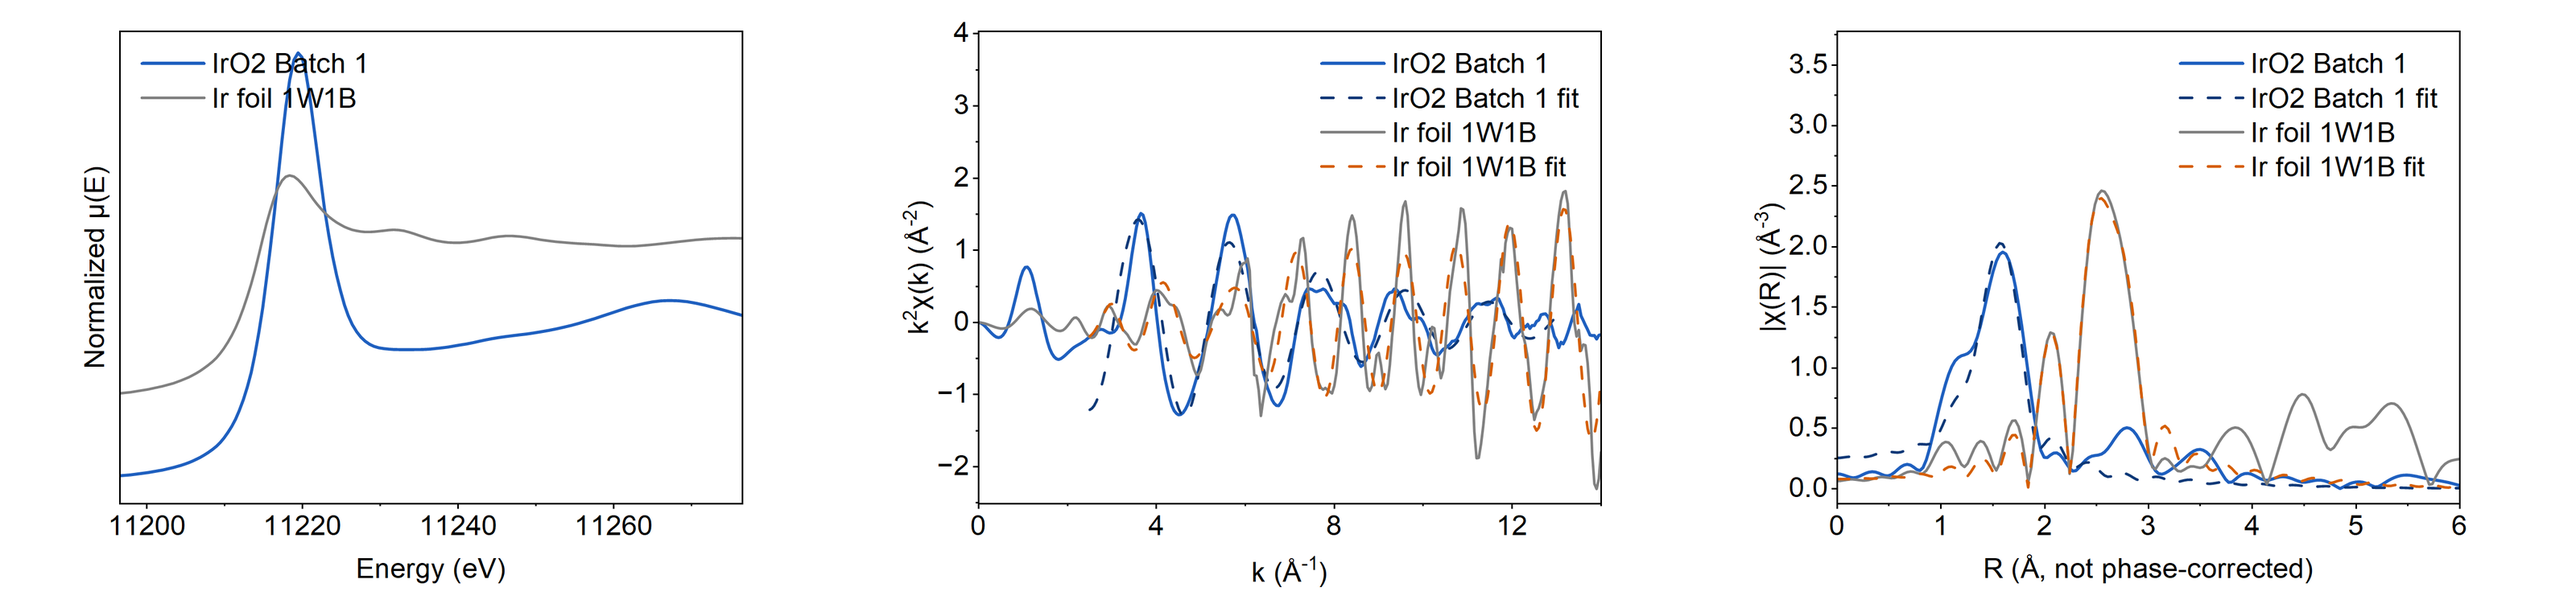
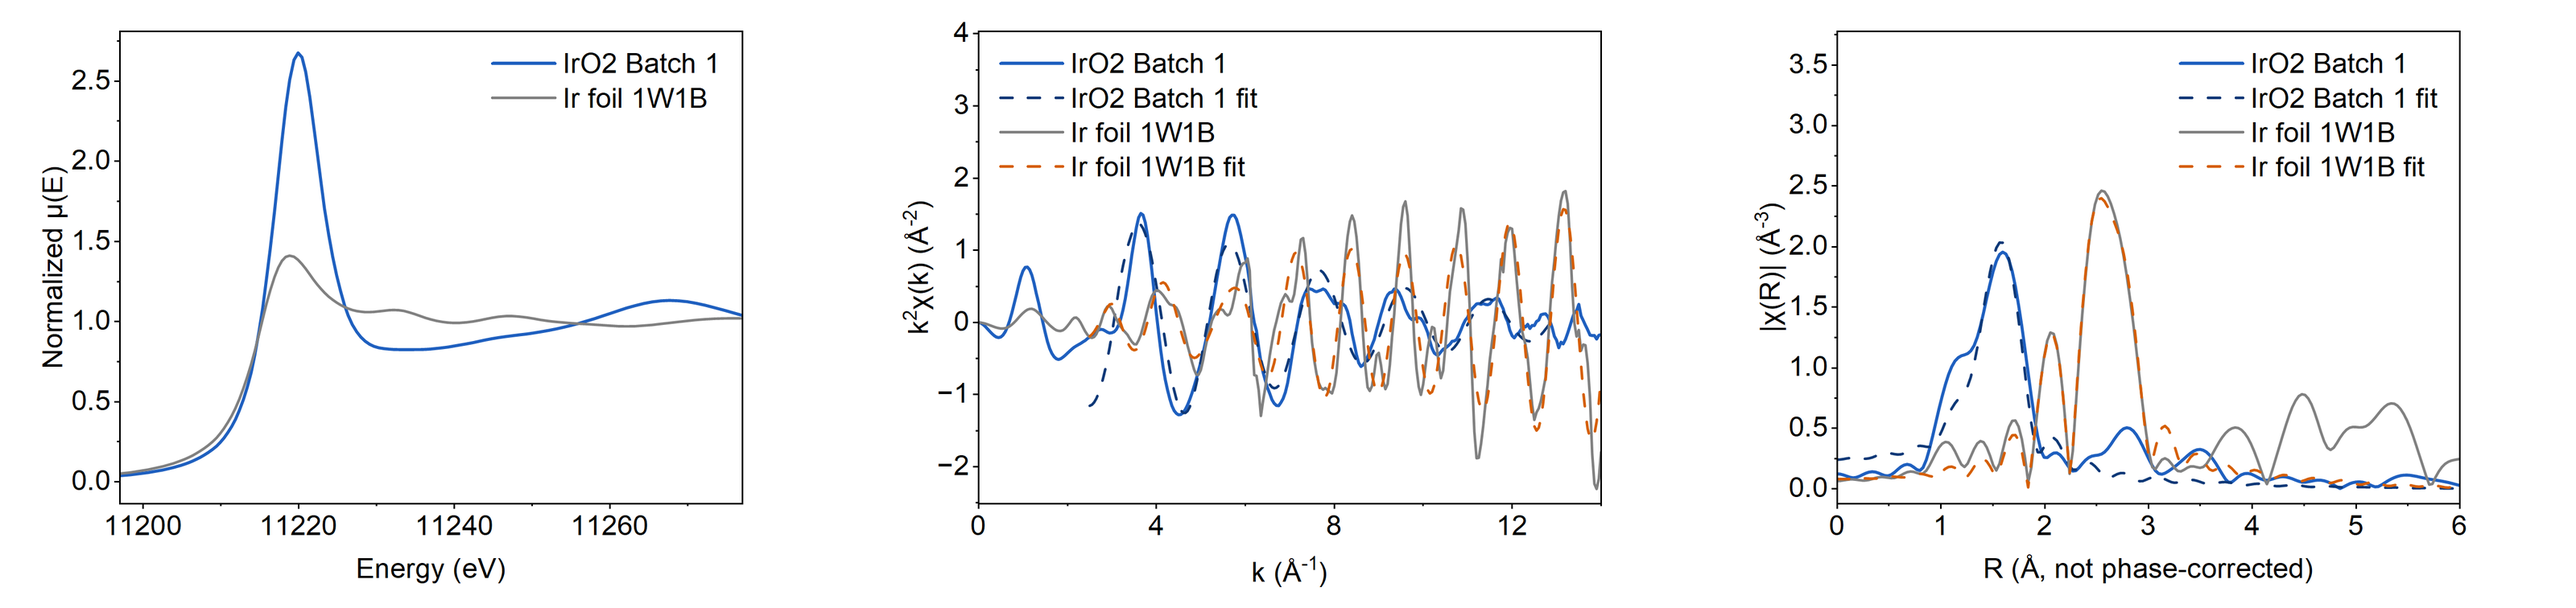
修复导出页叠加拟合不显示、预览被裁切；README 图重做拟合；退出前等待后台线程
- 导出页：拟合按会话键名或显示名 g.label 匹配谱（拟合记录的样品名是显示名，原来匹配不上，勾选后无拟合线）
- 导出页：叠加拟合选择单独一行；MultiSelect 不按长文字撑宽布局（原来页面被撑宽，预览右侧被裁掉）
- Origin 图例自动放在曲线较低的一侧
- README 图：Batch1 的 Ir 箔按 11215.0 eV（xraydb）重新校准（原记录误用 11214.5 eV，与另一批差 0.5 eV）；
  XANES 不错开、共用纵轴；IrO2 Batch 1 重新拟合（S0² 固定 0.80）
- 退出前取消并等待后台 QThread（线程对象在运行中被销毁时 Qt 会 abort，疑为 CI ubuntu/3.11 退出码 134 的原因）

diff --git a/src/xafsmith/qt/pages/output.py b/src/xafsmith/qt/pages/output.py
@@ -169,6 +169,15 @@ class MethodsPage(Page):
         return card
 
 
+def _fit_key(S, fit, keys):
+    """拟合属于哪条谱（会话中的键）：拟合记录的样品名可能是键名，也可能是谱的显示名 g.label"""
+    names = {fit["summ"].get("sample"), (fit.get("model") or {}).get("sample")}
+    for k in keys:
+        if k in names or getattr(S.groups.get(k), "label", None) in names:
+            return k
+    return None
+
+
 # ============================================================================= 图片导出
 class PubFigPage(Page):
     title_zh, title_en, icon_name = "图片导出", "Figure export", "chart"
@@ -221,16 +230,15 @@ class PubFigPage(Page):
                     opt["re"] = W.check(T("同时画 Re χ(R)（虚线）", "Also Re χ(R) (dashed)"), self.state.get("re", False))
                     items.append((T("R 上限", "R max"), opt["rmax"]))
                 # 叠加拟合：每条谱默认取最近一次拟合，也可在列表中指定
-                fit_ids = [i for i, f_ in enumerate(S.fits) if f_["summ"]["sample"] in cands]
+                fit_ids = [i for i, f_ in enumerate(S.fits) if _fit_key(S, f_, cands)]
                 latest = {}
                 for i in fit_ids:
-                    latest[S.fits[i]["summ"]["sample"]] = i
+                    latest[_fit_key(S, S.fits[i], cands)] = i
                 opt["usefit"] = W.check(T("叠加拟合曲线（虚线）", "Overlay fit (dashed)"), self.state.get("usefit", False) and bool(fit_ids))
                 saved = [i for i in self.state.get("fits", []) if i in fit_ids]
                 opt["fits"] = W.MultiSelect(fit_ids, saved or list(latest.values()),
                                             T("无拟合：先在“EXAFS 拟合”中拟合", "No fits: fit under “EXAFS fitting” first"),
                                             fmt=lambda i: fit_label(S.fits[i]))
-                items.append((T("拟合", "Fits"), opt["fits"]))
             ctl.add(W.fields(*items))
             refs0 = self.state.get("refs")
             if refs0 is None:
@@ -238,6 +246,8 @@ class PubFigPage(Page):
             opt["refs"] = W.MultiSelect(cands, [c for c in refs0 if c in cands], T("无（全部按样品配色）", "None (all as samples)"))
             ctl.add(W.fields((T("配色方案", "Palette"), pal),
                              (T("参比 / 标样（用灰色画，线稍细）", "References / standards (grey, thinner)"), opt["refs"])))
+            if "fits" in opt:       # 单独一行：放在上面一行会把页面撑宽，预览被裁掉
+                ctl.add(W.fields((T("叠加的拟合（每条谱默认取最近一次）", "Fits to overlay (latest per spectrum by default)"), opt["fits"])))
             ctl.add(W.hbox(opt["sub"], *([opt["re"]] if "re" in opt else []), *([opt["usefit"]] if "usefit" in opt else []), None))
         ctl.add(W.fields((T("尺寸", "Size"), size), (T("格式", "Formats"), fmts), (T("文件名", "File name"), name)))
         self.add(ctl)
@@ -270,10 +280,13 @@ class PubFigPage(Page):
                     cols = pf.series_colors(sel, pal.value(), opt["refs"].value())
                     fits = None
                     if "usefit" in opt and opt["usefit"].isChecked():
+                        # 按谱的显示名（g.label）对应：会话里的键名与 g.label 不一定相同
                         fits = {}
                         for i in opt["fits"].value():
-                            fits[S.fits[i]["summ"]["sample"]] = S.fits[i]
-                        fits = {k: v for k, v in fits.items() if k in sel} or None
+                            smp = _fit_key(S, S.fits[i], sel)
+                            if smp:
+                                fits[S.groups[smp].label] = S.fits[i]
+                        fits = fits or None
                     if k_ in ("xanes", "deriv"):
                         fig, c = pf.xanes(gs, size.value(), (opt["lo"].value(), opt["hi"].value()), opt["off"].value(),
                                           deriv=k_ == "deriv", sub=sub, colors=cols)

diff --git a/src/xafsmith/origin_export.py b/src/xafsmith/origin_export.py
@@ -75,6 +75,23 @@ def _inc(ax, which):
     return inc
 
 
+def _legend_side(ax, lines):
+    """图例放在左上还是右上：取两侧（各占横轴 35%）中曲线最高点较低的一侧，避免压住白线 / 主峰"""
+    x0, x1 = ax.get_xlim()
+    w = 0.35 * (x1 - x0)
+    tops = []
+    for lo, hi in ((x0, x0 + w), (x1 - w, x1)):
+        m = -np.inf
+        for ln in lines:
+            x = np.asarray(ln.get_xdata(), float)
+            y = np.asarray(ln.get_ydata(), float)
+            sel = (x >= lo) & (x <= hi) & np.isfinite(y)
+            if sel.any():
+                m = max(m, float(y[sel].max()))
+        tops.append(m)
+    return "tl" if tops[0] < tops[1] else "tr"
+
+
 def figure_spec(fig, out_dir, name, kind="", png=False):
     """从 matplotlib 图取曲线与坐标轴，写 CSV，返回 builder 用的说明（每个坐标轴一张 Origin 图）"""
     out_dir = Path(out_dir)
@@ -121,7 +138,7 @@ def figure_spec(fig, out_dir, name, kind="", png=False):
                            xlabel=xlab, ylabel=origin_text(ax.get_ylabel().replace(" (offset)", "")),
                            xlim=xlim, ylim=[float(v) for v in ax.get_ylim()],
                            xinc=xinc, yinc=_inc(ax, "y"), hide_y=hide_y,
-                           legend_pos="tl" if kind in ("xanes", "deriv") else "tr",
+                           legend_pos=_legend_side(ax, lines),
                            png=str((out_dir / f"{book}_origin.png").resolve()) if png else None))
     return dict(out=str((out_dir / f"{name}.opju").resolve()), style=STYLE, graphs=graphs)
 

diff --git a/src/xafsmith/qt/widgets/tasks.py b/src/xafsmith/qt/widgets/tasks.py
@@ -8,6 +8,8 @@ from __future__ import annotations
 
 from xafsmith import logs
 import traceback
+import atexit
+
 from PySide6.QtCore import QObject, Qt, QThread, Signal, Slot
 from PySide6.QtWidgets import QApplication, QMessageBox
 
@@ -170,6 +172,21 @@ def run_task(parent, fn, on_done, busy_text=None, button_=None, progress=False, 
     _RUNNING.append(entry)
     th.start()
     return handle
+
+
+def shutdown_tasks(timeout_ms=10000):
+    """退出前：取消并等待所有后台线程结束。线程对象在线程仍运行时被销毁，Qt 会直接 abort（退出码 134）。"""
+    for th, _wk, _relay, handle in list(_RUNNING):
+        try:
+            handle.cancel()
+            th.quit()
+            th.wait(timeout_ms)
+        except RuntimeError:          # C++ 对象已删除
+            pass
+    _RUNNING.clear()
+
+
+atexit.register(shutdown_tasks)
 
 
 def wait_cursor(fn):

diff --git a/src/xafsmith/qt/widgets/inputs.py b/src/xafsmith/qt/widgets/inputs.py
@@ -115,6 +115,17 @@ class MultiSelect(QPushButton):
         self.clicked.connect(lambda *_: self._popup())
         self._update_text()
 
+    def minimumSizeHint(self):
+        sz = super().minimumSizeHint()
+        sz.setWidth(min(sz.width(), 120))
+        return sz
+
+    def sizeHint(self):
+        # 文字很长时（多个选中项）不按文字长度撑宽布局；显示时按实际宽度省略
+        sz = super().sizeHint()
+        sz.setWidth(min(sz.width(), 240))
+        return sz
+
     def set_options(self, options, selected=None):
         self.opts = list(options)
         self.sel = [o for o in (self.sel if selected is None else selected) if o in self.opts]

diff --git a/tests/test_qt.py b/tests/test_qt.py
@@ -648,6 +648,9 @@ def main():
     lbls = " ".join(l.text() for l in w.findChildren(QLabel))
     say("Claude Opus 5.5" in lbls and "no warranty" in lbls, "English：署名与免责声明")
     print("全部通过" if OK[0] else "存在失败")
+    W.shutdown_tasks()          # 后台线程全部结束后再退出（线程对象在运行中被销毁会 abort）
+    w.close()
+    app.processEvents()
     return 0 if OK[0] else 1
 
 

diff --git a/src/xafsmith/qt/app.py b/src/xafsmith/qt/app.py
@@ -647,6 +647,7 @@ def make_window(project=None, lang=None, dark=None):
     elif os.environ.get("XAFSMITH_PROJECT"):
         paths.set_root(os.environ["XAFSMITH_PROJECT"])
     app = QApplication.instance() or QApplication(sys.argv)
+    app.aboutToQuit.connect(W.shutdown_tasks)       # 退出前等后台线程结束（否则 Qt 会 abort）
     app.setApplicationName("XAFSmith")
     app.setStyle("Fusion")
     if dark is None:

diff --git a/src/xafsmith/qt/widgets/__init__.py b/src/xafsmith/qt/widgets/__init__.py
@@ -69,6 +69,7 @@ from .tasks import (  # noqa: F401
     _Worker,
     _show_status,
     run_task,
+    shutdown_tasks,
     wait_cursor,
 )
 from .system import (  # noqa: F401
